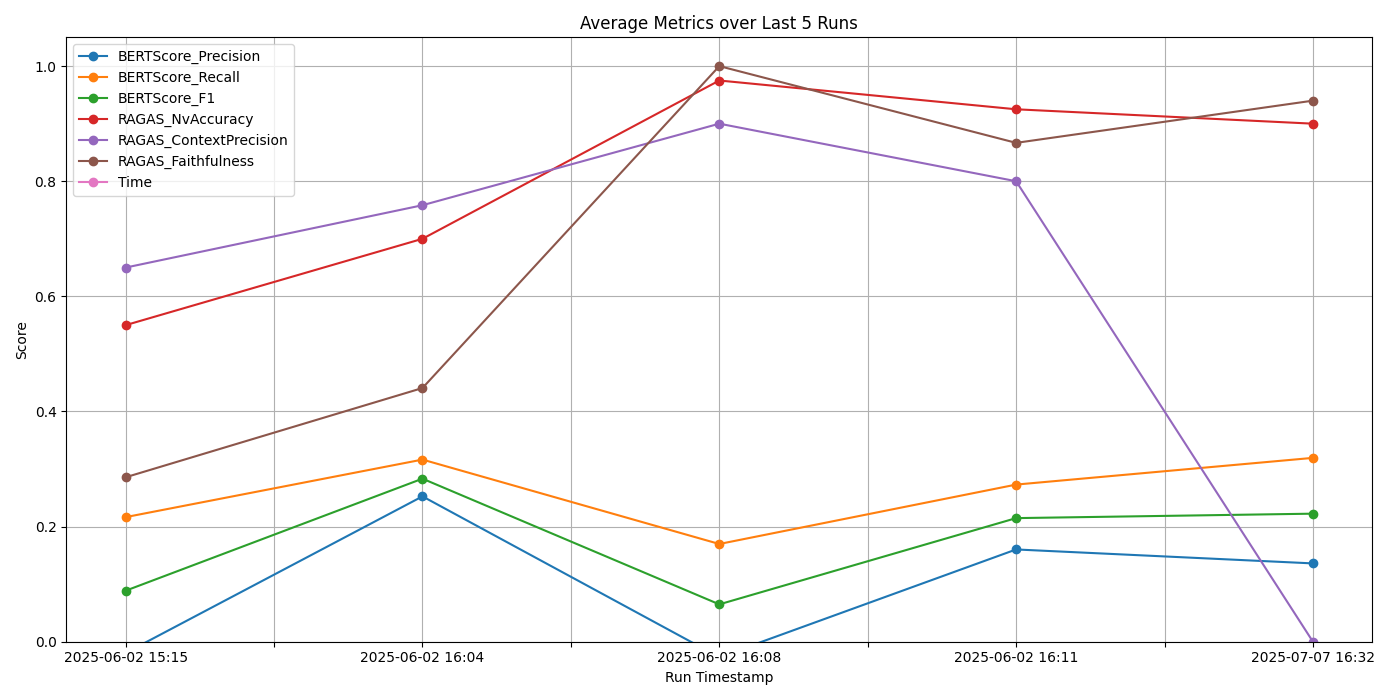
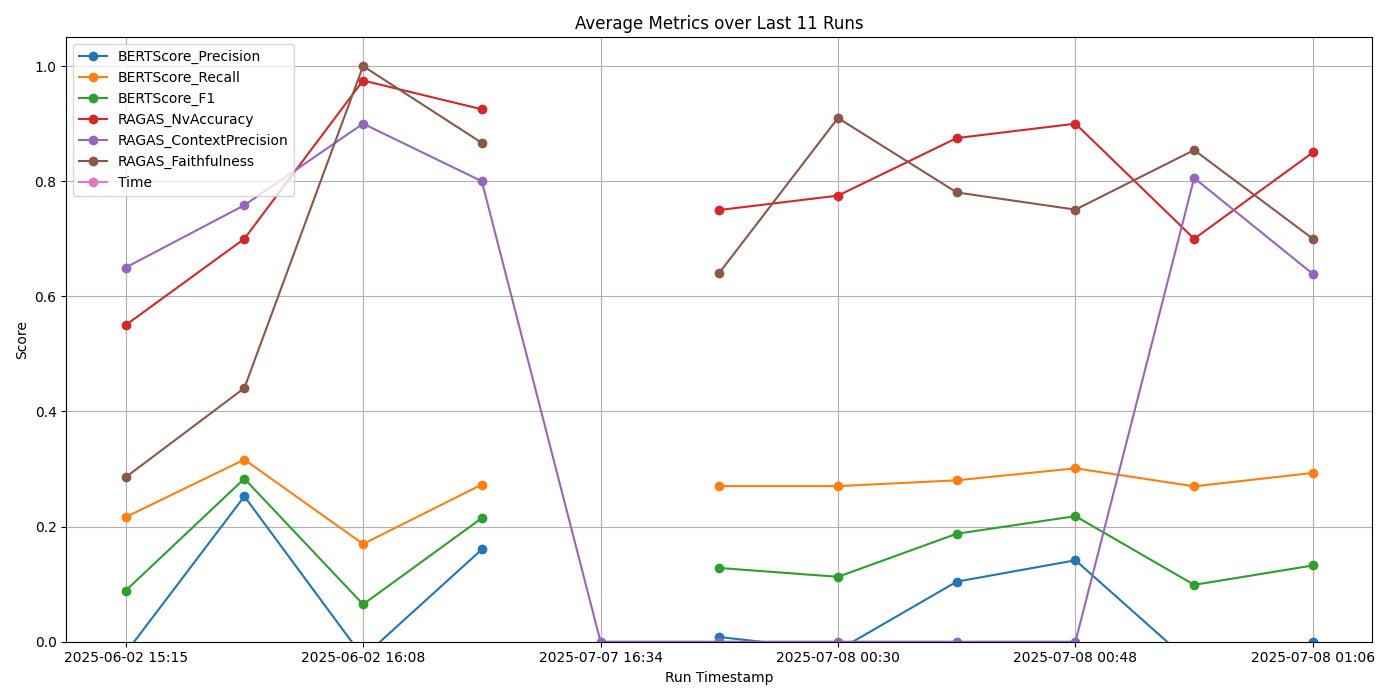
bug fixes and more data, also added context to logs

diff --git a/Project/Testing.py b/Project/Testing.py
@@ -12,6 +12,7 @@ import pandas as pd
 import matplotlib.pyplot as plt
 import time
 
+
 class RetrievalTesting(unittest.TestCase):
 
     def setUp(self):
@@ -51,7 +52,8 @@ class RetrievalTesting(unittest.TestCase):
         # Prepare logs directory
         llm = Chatting.llm
         qa_chain = Chatting.retrieval_chain
-        #memory = Chatting.memory.chat_memory.messages
+        #qa_chain = Chatting.qa_chain
+        memory = Chatting.memory
         today = datetime.date.today().isoformat()
         log_dir = os.path.join("logs", today)
         os.makedirs(log_dir, exist_ok=True)
@@ -73,11 +75,11 @@ class RetrievalTesting(unittest.TestCase):
             "Test ID": log_id,
             "Date": today,
             "Chatbot model": Chatting.chat_model,
-            "Embedding model" : EMBEDDINGS,
-            "Vectorstore" : STORE_TYPE,
+            "Embedding model": EMBEDDINGS,
+            "Vectorstore": STORE_TYPE,
             "Chunking size": CHUNK_SIZE,
-            "Chunking overlap" : CHUNK_OVERLAP,
-            "Additional notes" : EXTRA_NOTES,
+            "Chunking overlap": CHUNK_OVERLAP,
+            "Additional notes": EXTRA_NOTES,
         }
 
         for category in categories:
@@ -91,9 +93,11 @@ class RetrievalTesting(unittest.TestCase):
                 result = qa_chain.invoke({
                     "input": question
                 })
+                #result = qa_chain.invoke({"question": question,
+                 #                         "chat_history": memory.chat_memory.messages})
                 run_time = time.time() - start_time
                 prediction = result.get('answer', '') if isinstance(result, dict) else str(result)
-                sources = result.get('source_documents', [])
+                sources = result.get('context', [])
                 contexts = [doc.page_content for doc in sources]
                 all_preds.append(prediction)
                 all_refs.append(reference)
@@ -111,6 +115,7 @@ class RetrievalTesting(unittest.TestCase):
                     "Question": question,
                     "Ground Truth": reference,
                     "Prediction": prediction,
+                    "Context": contexts,
                     "Time": run_time
                 })
 
@@ -123,11 +128,13 @@ class RetrievalTesting(unittest.TestCase):
                 reference = pair["antwort"]
                 start_time = time.time()
                 result = qa_chain.invoke({
-                    "input": question
+                   "input": question
                 })
+                #result = qa_chain.invoke({"question": question,
+                 #                         "chat_history": memory.chat_memory.messages})
                 run_time = time.time() - start_time
                 prediction = result.get('answer', '') if isinstance(result, dict) else str(result)
-                sources = result.get('source_documents', [])
+                sources = result.get('context', [])
                 contexts = [doc.page_content for doc in sources]
                 all_preds.append(prediction)
                 all_refs.append(reference)
@@ -145,6 +152,7 @@ class RetrievalTesting(unittest.TestCase):
                     "Question": question,
                     "Ground Truth": reference,
                     "Prediction": prediction,
+                    "Context": contexts,
                     "Time": run_time
                 })
 
@@ -195,7 +203,6 @@ class RetrievalTesting(unittest.TestCase):
 
         print(f" Evaluation CSV saved to: {csv_path}")
 
-
     def update_average_graph(self):
         N = 20
         # Collect all CSV paths
@@ -221,7 +228,8 @@ class RetrievalTesting(unittest.TestCase):
                     avg_row = avg_row.select_dtypes(include="number")
                     avg_row["log_file"] = os.path.basename(path)
                     avg_rows.append(avg_row)
-                    timestamps.append(datetime.datetime.fromtimestamp(os.path.getmtime(path)).strftime("%Y-%m-%d %H:%M"))
+                    timestamps.append(
+                        datetime.datetime.fromtimestamp(os.path.getmtime(path)).strftime("%Y-%m-%d %H:%M"))
             except Exception as e:
                 print(f"Skipping {path}: {e}")
 

diff --git a/Project/config.py b/Project/config.py
@@ -2,11 +2,11 @@ import os
 from langchain_openai import OpenAIEmbeddings
 
 USE_OPENAI = False
-USE_FAISS = False
+USE_FAISS = True
 OPENAI_API_KEY = os.environ.get('OPENAI_API_KEY')
 MODEL_NAME = "mistral"
-CHUNK_SIZE = 500
-CHUNK_OVERLAP = 50
+CHUNK_SIZE = 700
+CHUNK_OVERLAP = 80
 if USE_FAISS:
     STORE_TYPE = "FAISS"
 else:

diff --git a/Project/Chatting.py b/Project/Chatting.py
@@ -54,7 +54,7 @@ system_prompt = (
     "Wenn der Kontext nicht zu der Frage passt und du nicht antworten kannst"
     "dann sag dass du dabei nicht helfen kannst."
     "\n\n"
-    "{context}"
+    "Context: {context}"
 )
 
 prompt = ChatPromptTemplate.from_messages(
